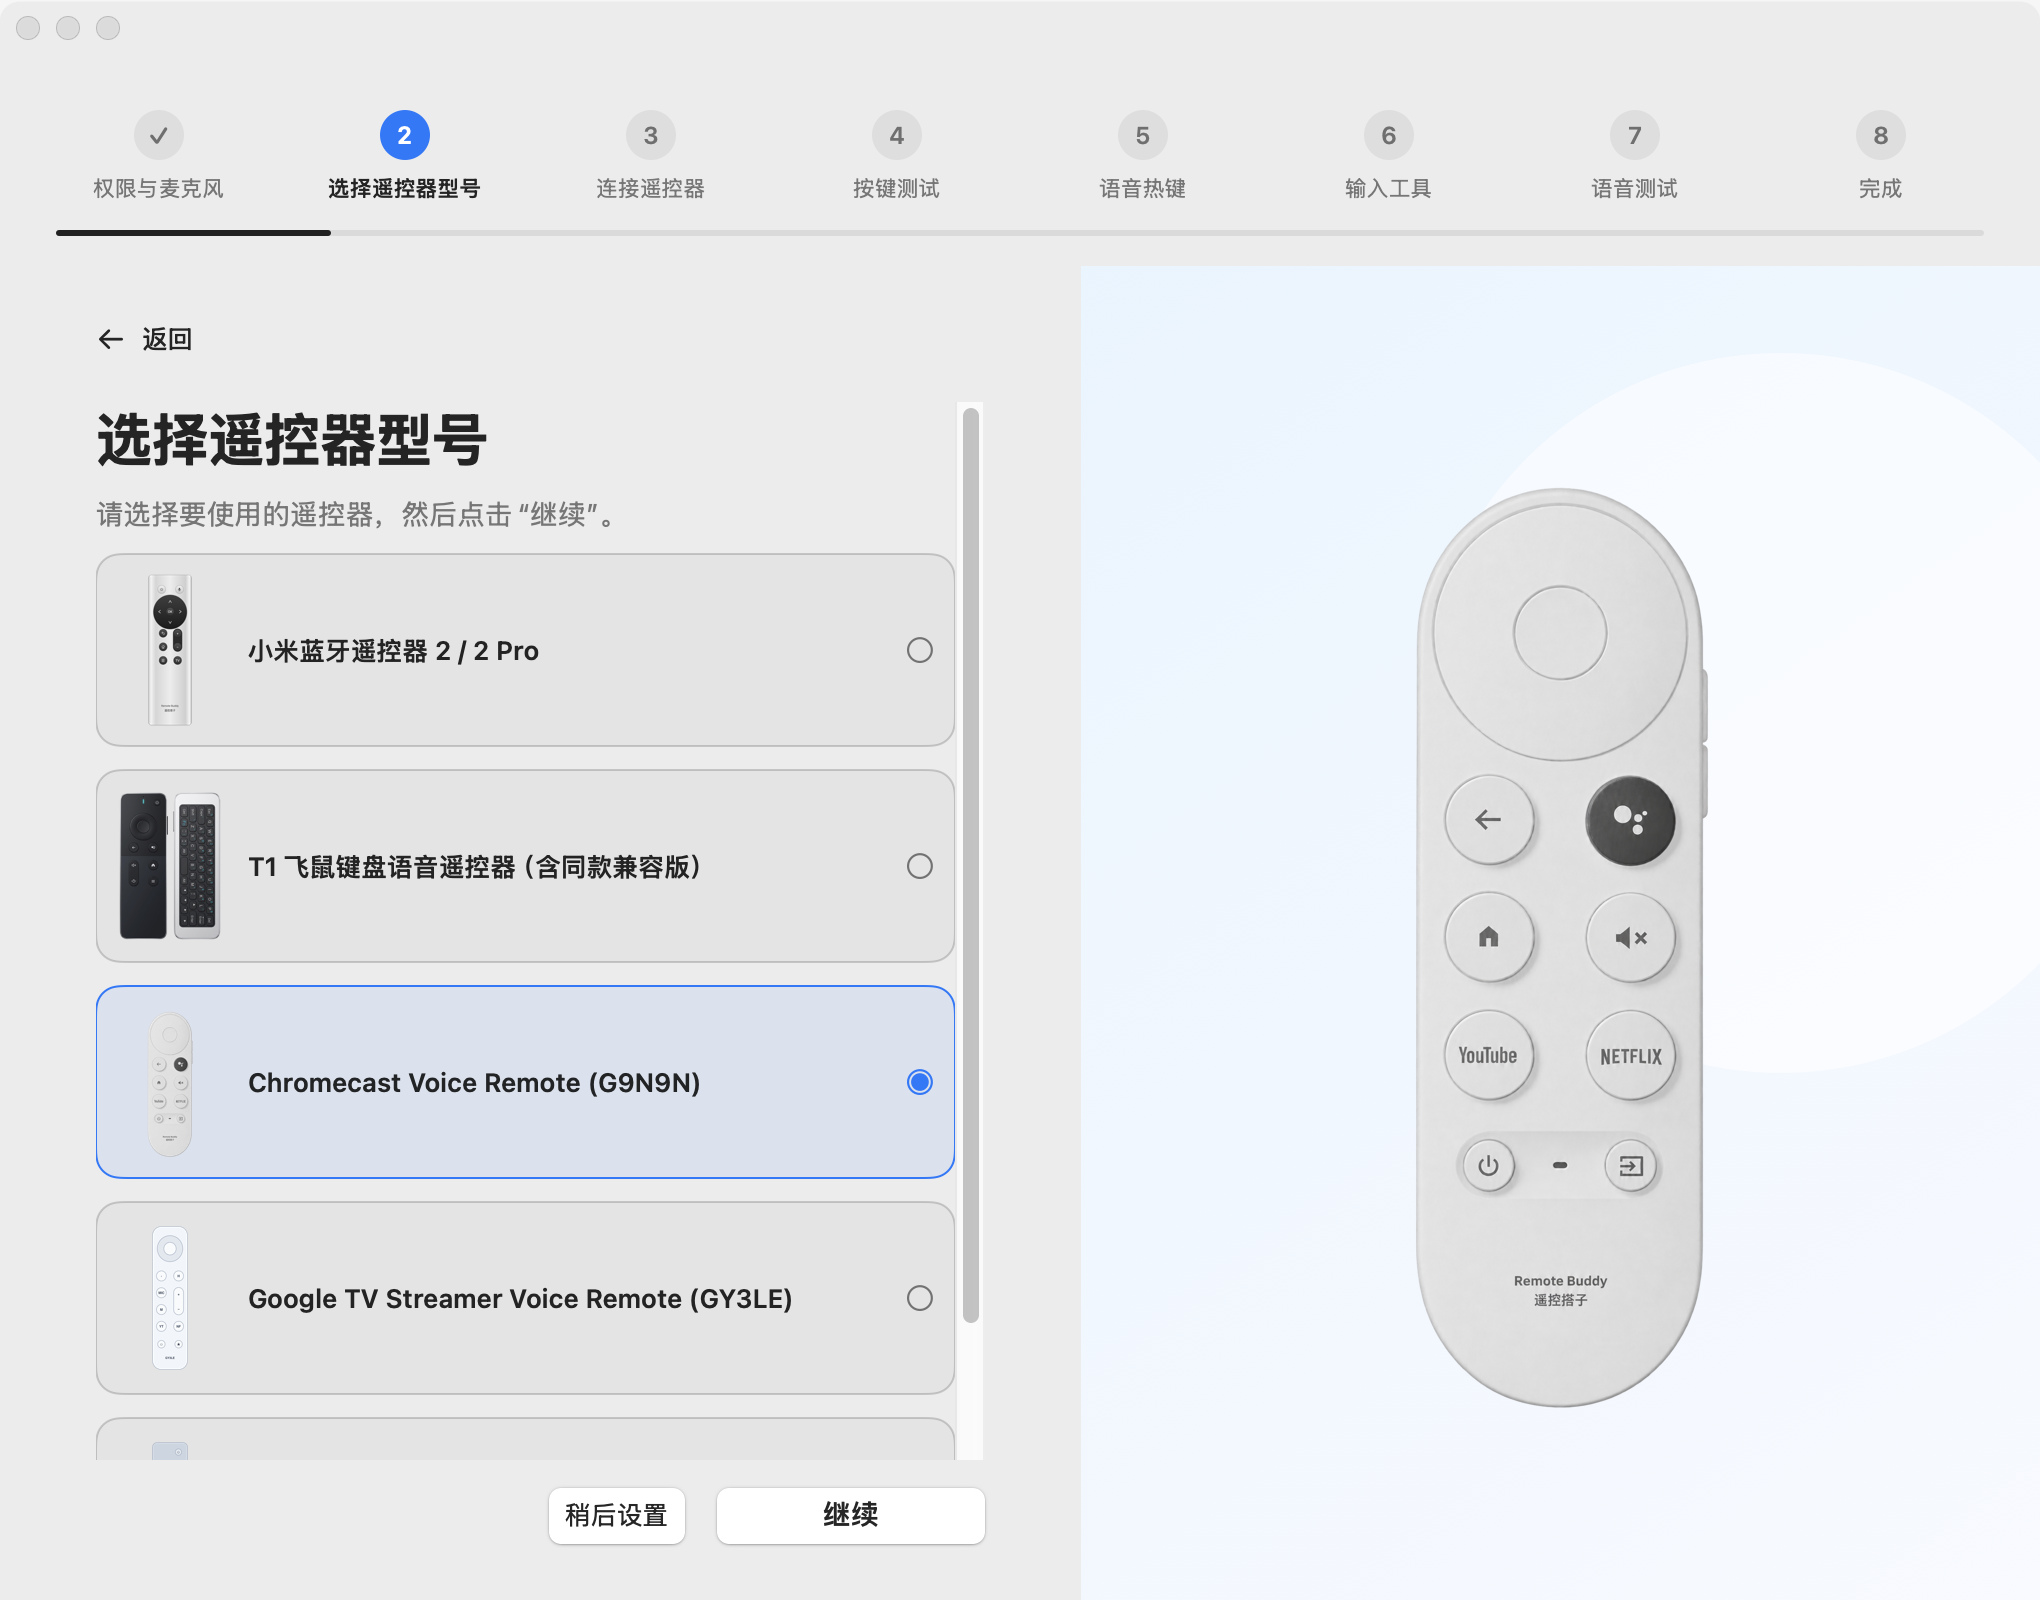
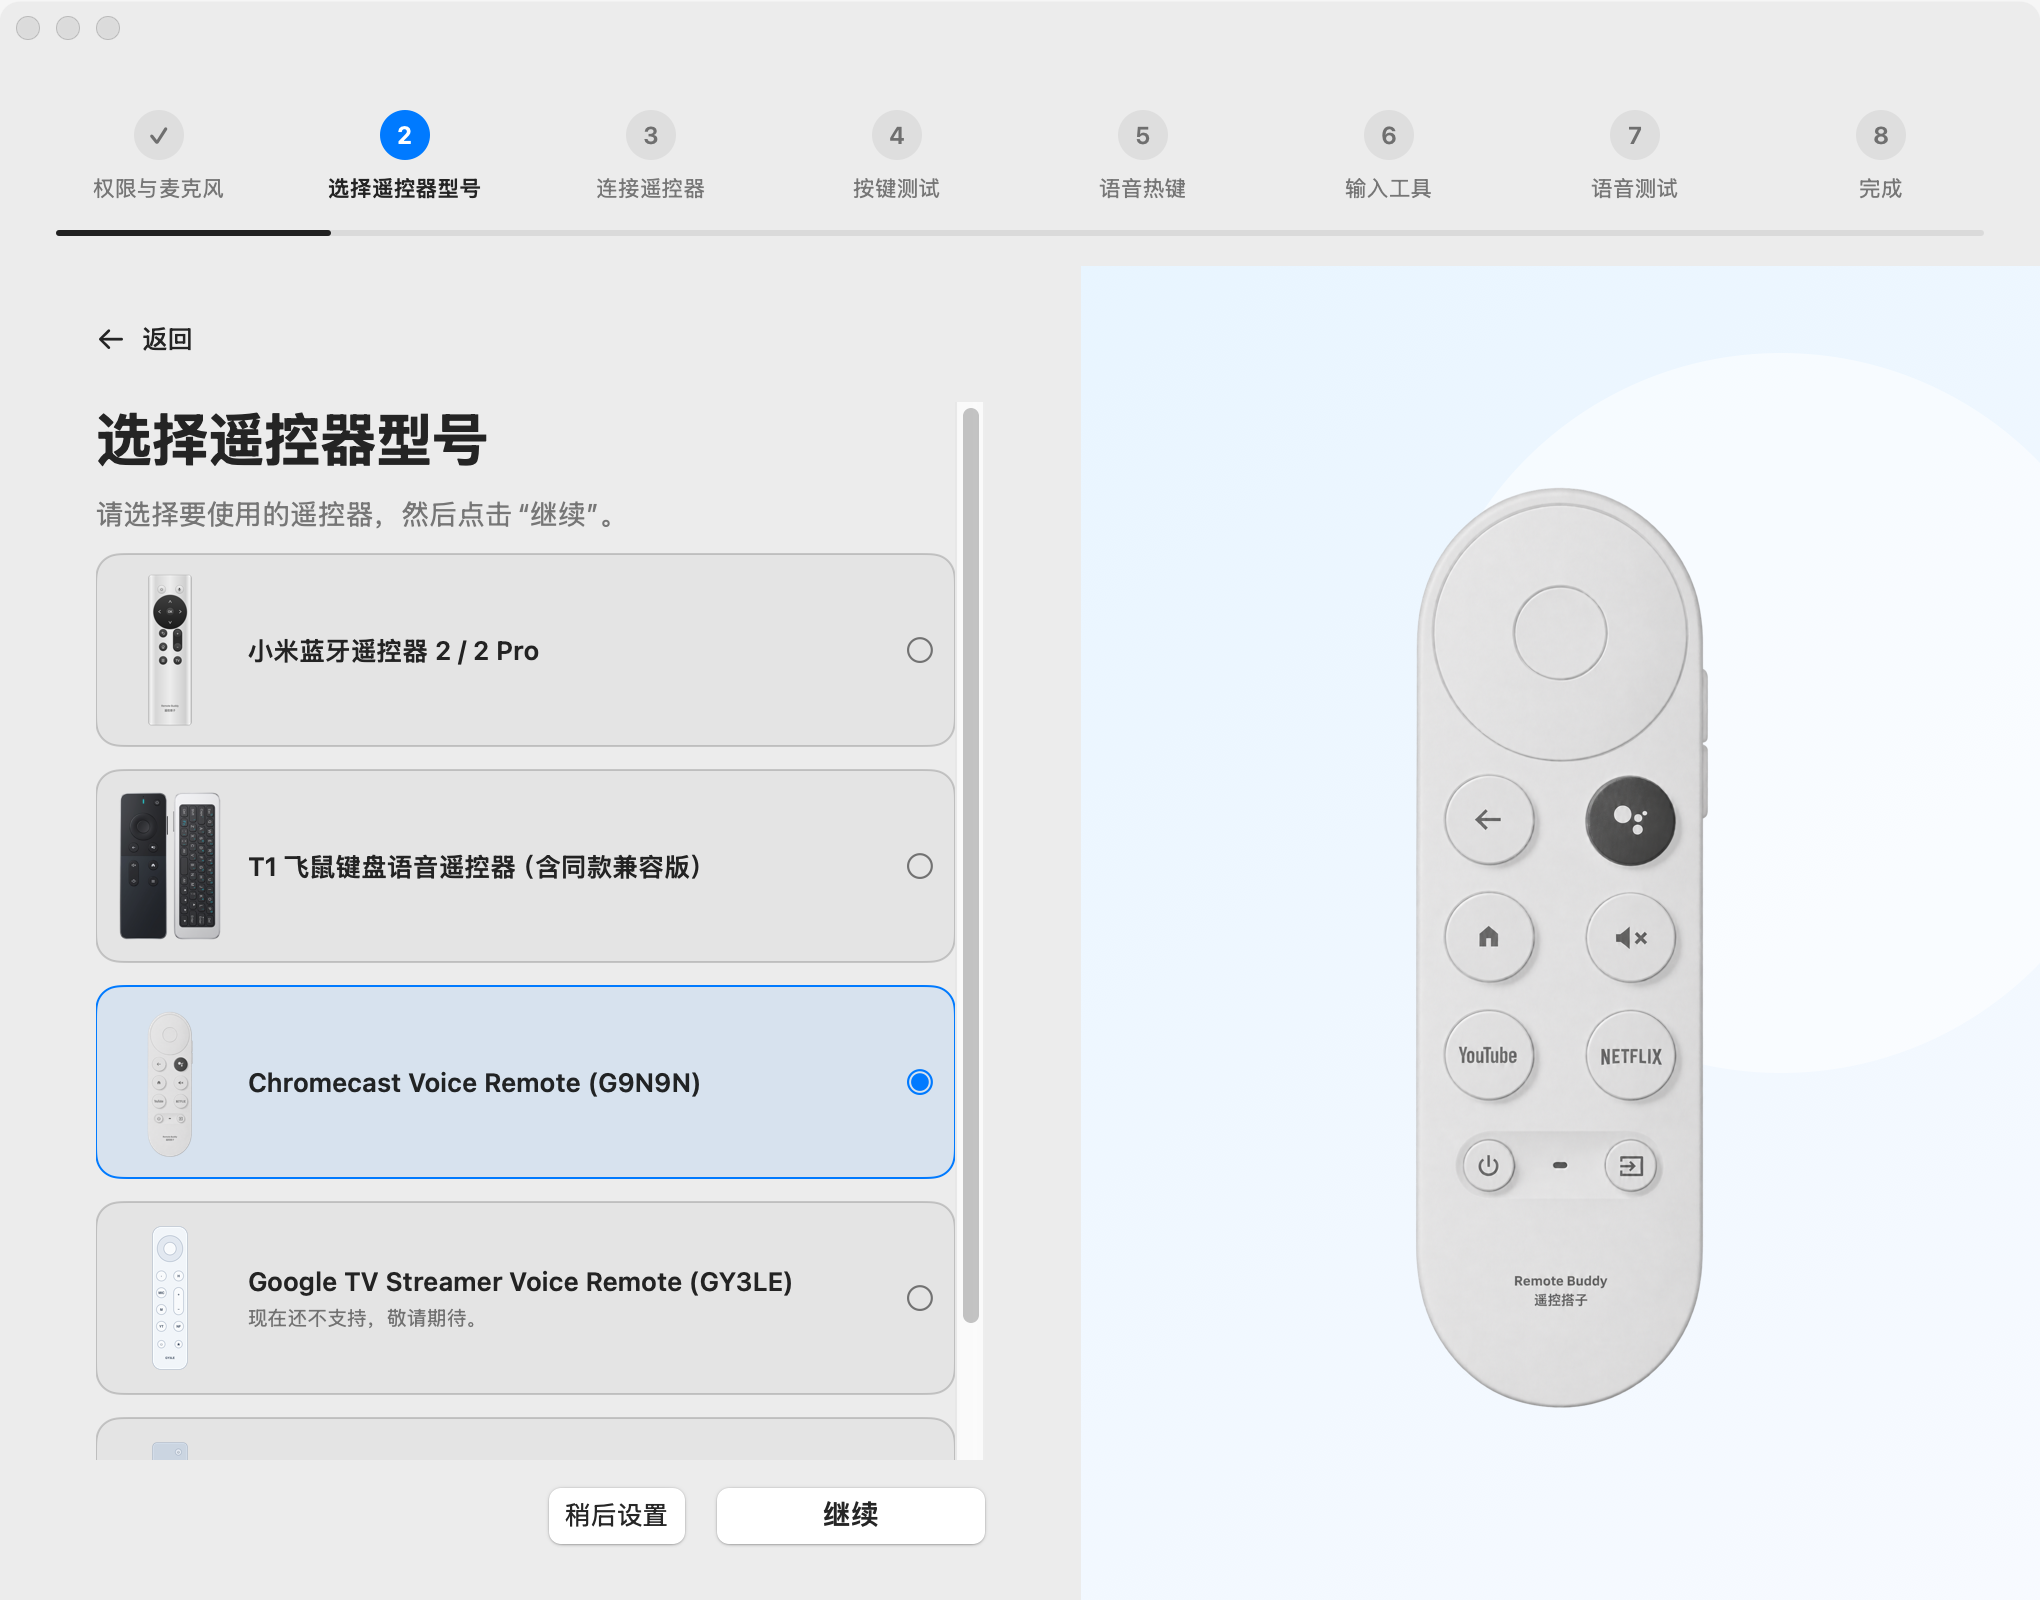
fix(onboarding): block setup for the unsupported GY3LE remote

Changed region(s): [[0.1235, 0.7812, 0.4015, 0.8438], [0.4324, 0.6562, 0.4632, 0.6875], [0.1853, 0.0625, 0.2162, 0.0938]]

diff --git a/Tests/RemoteBuddyTests/ProductBoundaryTests.swift b/Tests/RemoteBuddyTests/ProductBoundaryTests.swift
@@ -287,7 +287,7 @@ struct ProductBoundaryTests {
         #expect(RemoteSetupDevice.chromecastG9N9N.googleHardwareModelNumber == "G9N9N")
         #expect(RemoteSetupDevice.googleStreamerGY3LE.googleHardwareModelNumber == "GY3LE")
         #expect(RemoteSetupDevice.allCases.filter(\.canStartSetup) == [
-            .xiaomi, .t1Remote, .chromecastG9N9N, .googleStreamerGY3LE,
+            .xiaomi, .t1Remote, .chromecastG9N9N,
         ])
         // Listing non-Xiaomi devices must not admit them through the Xiaomi hardware bridge.
         #expect(XiaomiRemoteCatalog.entry(matchingDISModelNumber: "G9N9N") == nil)
@@ -358,7 +358,7 @@ struct ProductBoundaryTests {
     }
 
     @Test @MainActor func googleSelectionKeepsItsOwnIllustrationAndConnectionValidation() throws {
-        for device in [RemoteSetupDevice.chromecastG9N9N, .googleStreamerGY3LE] {
+        for device in [RemoteSetupDevice.chromecastG9N9N] {
             let suite = "google-selection-" + UUID().uuidString
             let defaults = try #require(UserDefaults(suiteName: suite))
             defer { defaults.removePersistentDomain(forName: suite) }
@@ -380,7 +380,8 @@ struct ProductBoundaryTests {
             #expect(view.physicalRemotePairingKeys.thirdStep == "onboarding.remote.chromecast_pairing.third")
             #expect(view.controlsDetailKey == "onboarding.controls.chromecast.detail")
         }
-        #expect(RemoteSetupDevice.googleStreamerGY3LE.canStartSetup)
+        #expect(!RemoteSetupDevice.googleStreamerGY3LE.canStartSetup)
+        #expect(RemoteSetupDevice.googleStreamerGY3LE.onboardingSource == nil)
         #expect(OnboardingRemotePhotoKind.resolve(source: .chromecastRemote,
             selectedModel: .rc003, selectedDevice: .xiaomi)
             == .bundled(resourceName: RemoteSetupDevice.chromecastG9N9N.illustrationResource))

diff --git a/Sources/RemoteBuddy/Devices/RemoteSetupDevice.swift b/Sources/RemoteBuddy/Devices/RemoteSetupDevice.swift
@@ -10,13 +10,13 @@ enum RemoteSetupDevice: String, CaseIterable, Identifiable {
     var id: String { rawValue }
     var titleKey: String { "remote.catalog.\(rawValue).title" }
 
-    /// Selection can precede adapter readiness; connection validation remains mandatory.
+    /// Only devices with an available adapter can enter connection setup.
     var onboardingSource: OnboardingControlSource? {
         switch self {
         case .xiaomi: return .xiaomiRemote
         case .t1Remote: return .t1Remote
-        case .chromecastG9N9N, .googleStreamerGY3LE: return .chromecastRemote
-        case .siriRemote: return nil
+        case .chromecastG9N9N: return .chromecastRemote
+        case .googleStreamerGY3LE, .siriRemote: return nil
         }
     }
 

diff --git a/docs/development.md b/docs/development.md
@@ -146,8 +146,8 @@ The product device list is limited to Xiaomi Bluetooth Remote 2 / 2 Pro, T1-Remo
 Air-Mouse & Keyboard (and compatible clones), Google Chromecast Voice Remote (G9N9N),
 Google TV Streamer Voice Remote (GY3LE), and Apple Siri Remote. `RemoteSetupDevice` defines
 this scope; it does not grant connection support. All five entries can be selected.
-Continue advances Xiaomi, T1, and both Google choices to connection setup; Siri remains on
-the device page with an unsupported notice.
+Continue advances Xiaomi, T1, and G9N9N to connection setup. GY3LE and Siri remain on
+the device page with an unsupported notice and a disabled Continue button.
 The GY3LE setup entry does not admit it through the G9N9N adapter. G9N9N connection
 validation remains mandatory. The validated G9N9N supports voice and fourteen configurable ordinary buttons. See the [standalone report](g9n9n-compatibility.md). The
 validated Xiaomi admission catalog remains separate, so a planned Google model
